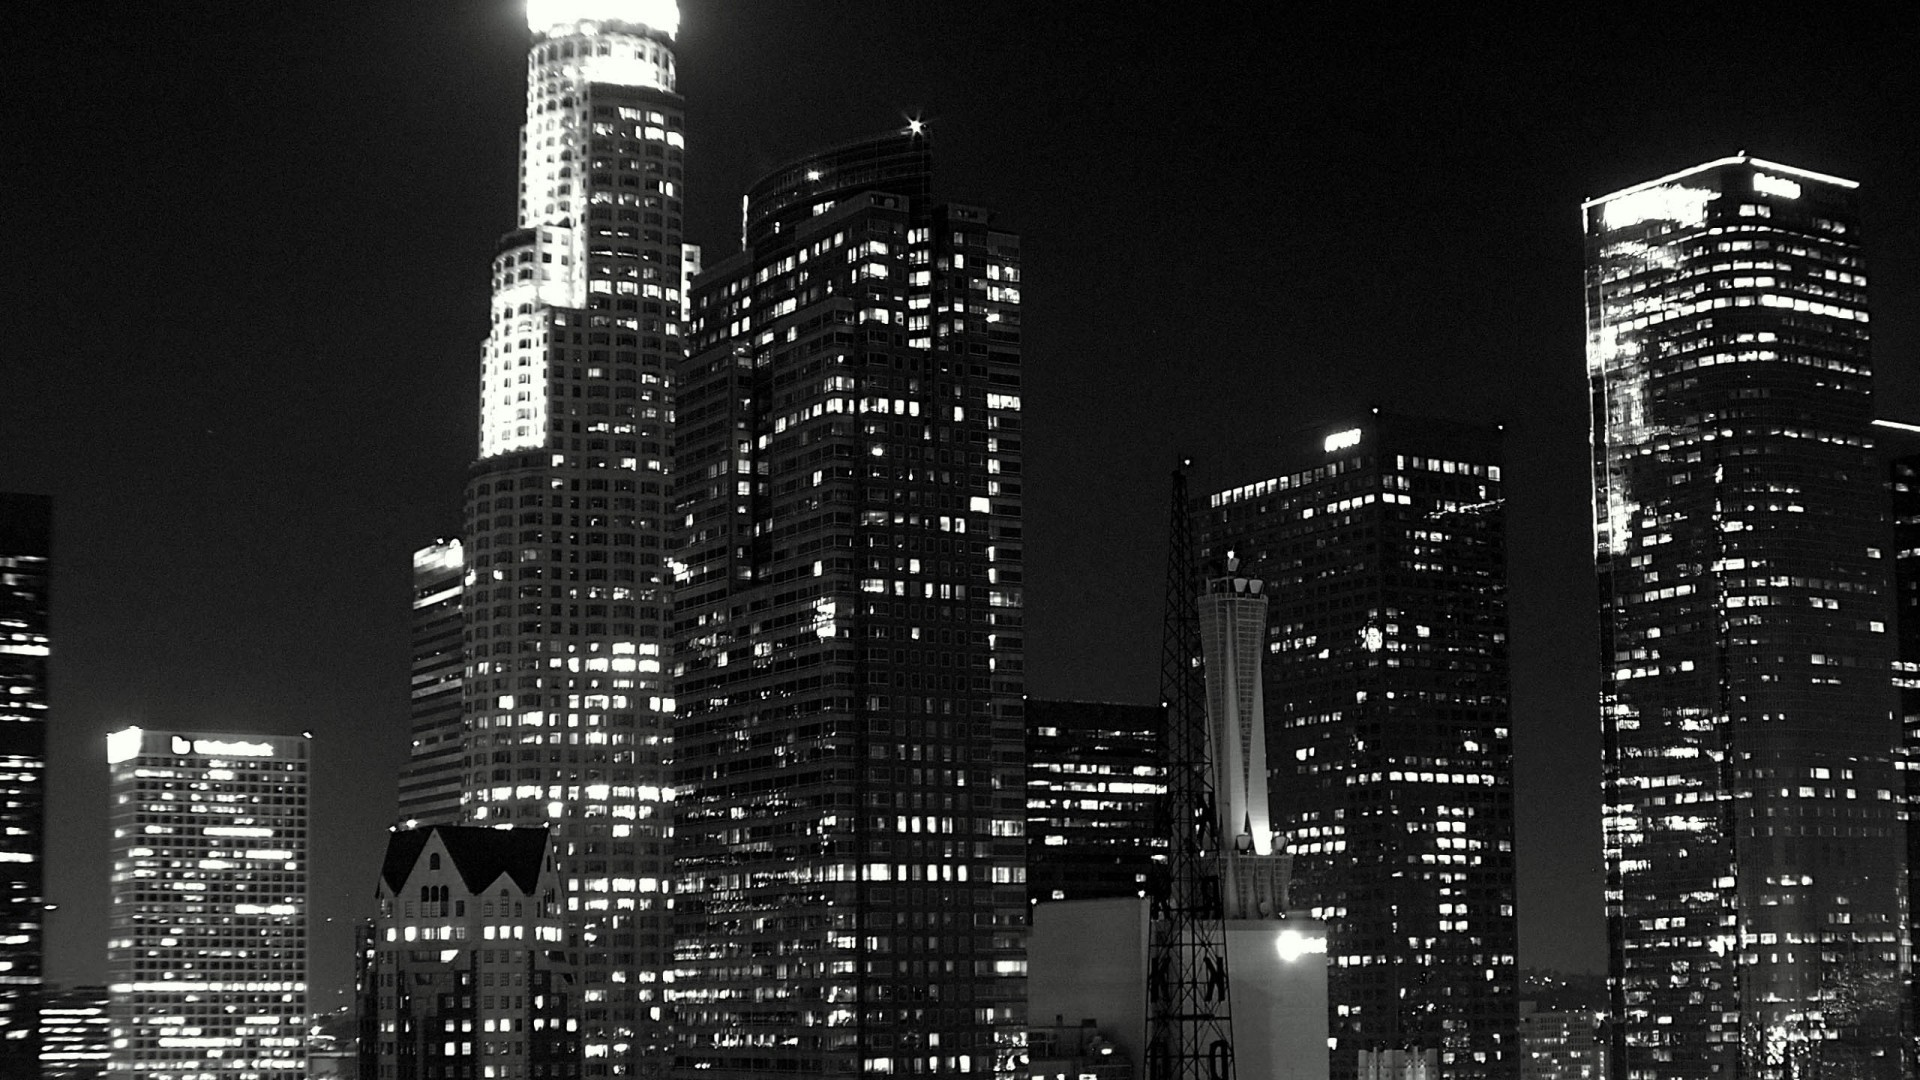
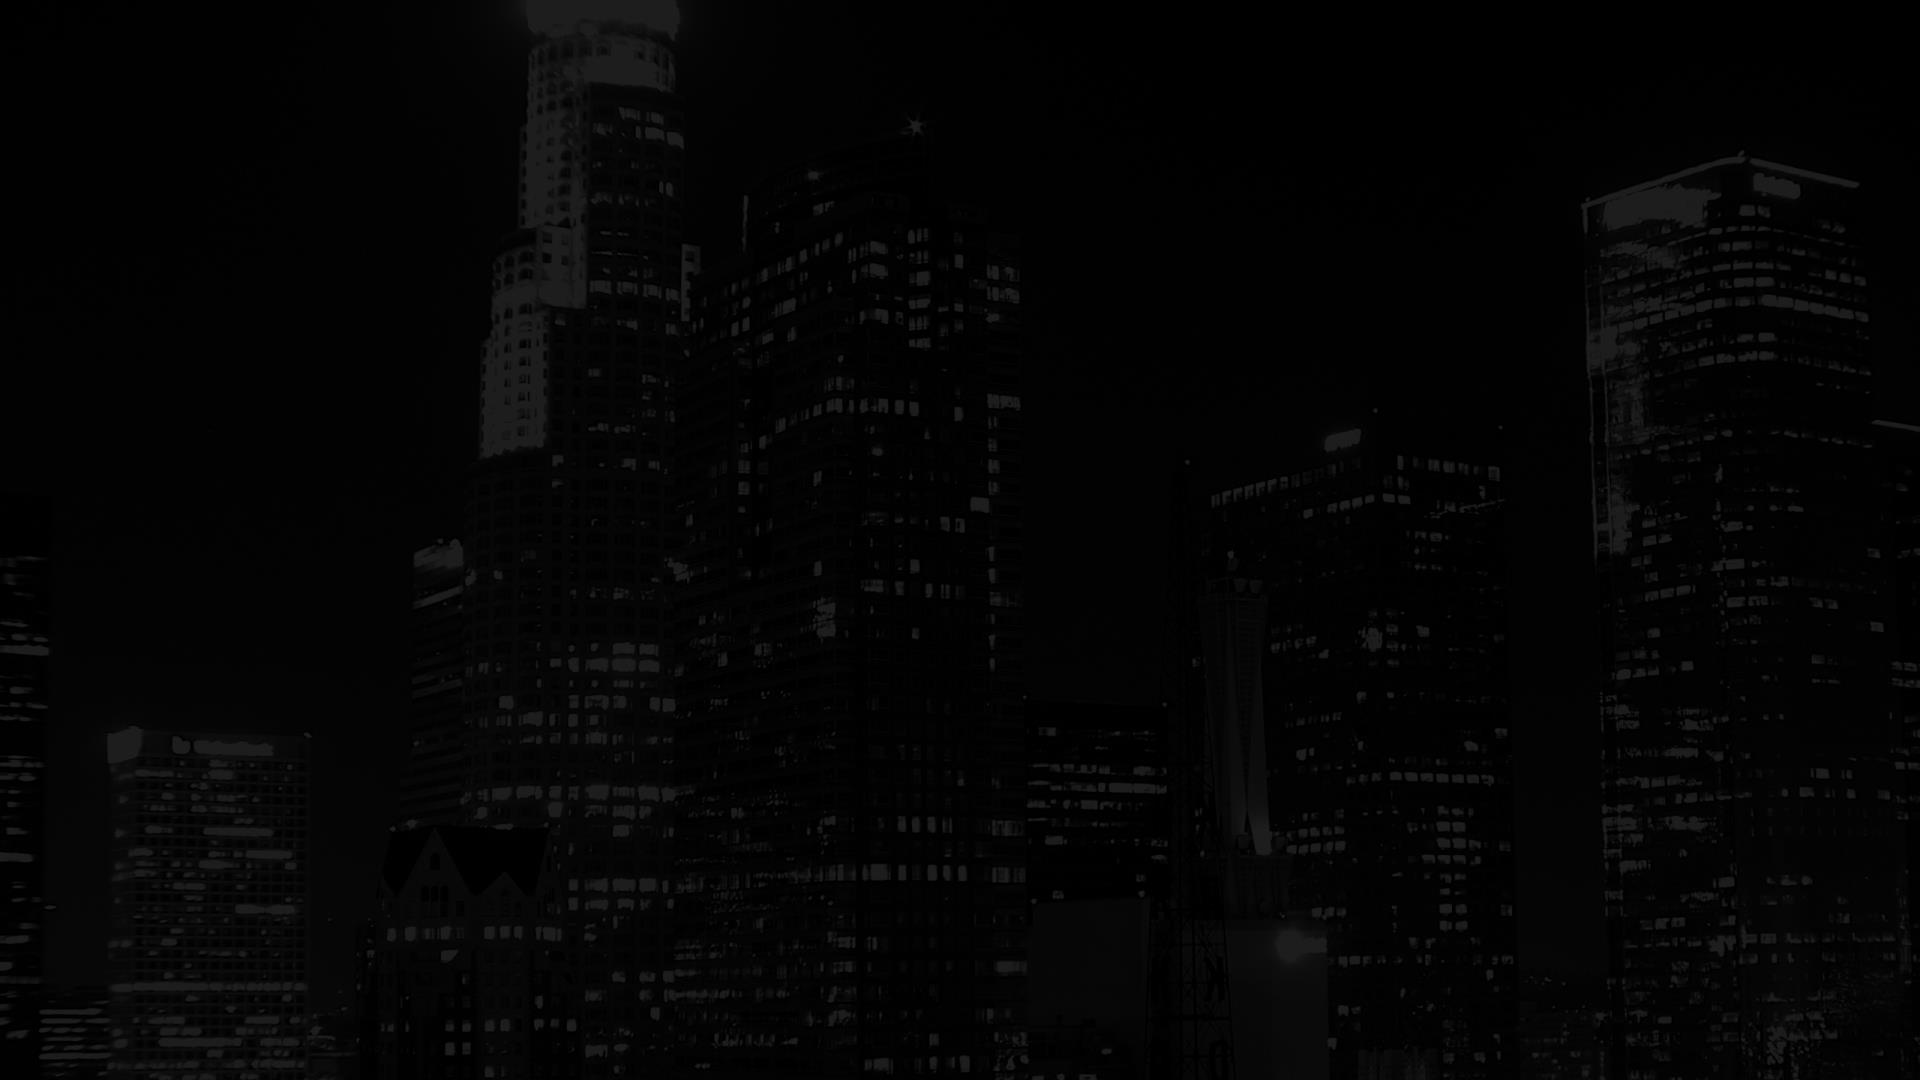
Modified background
Now it includes its own filter.

diff --git a/index.html b/index.html
@@ -49,15 +49,15 @@
 		<p class="wacky-text" id="block-two">I'm Yubo, I'm a developer...</p>
 		<p class="wacky-text" id="block-three">and an Electrical Engineering Student.</p>
 		<p class="wacky-text" id="block-four" style="padding-top:50px">Where would you like to go?</p>
-		<div class="buffer col-md-2"></div>
-		<div class="navigation-button col-md-4">About me</div>
-		<div class="navigation-button col-md-4">Projects</div>
-		<div class="buffer col-md-2"></div>
+		<div class="buffer col-sm-0 col-md-2"></div>
+		<div class="navigation-button col-sm-6 col-md-4">About me</div>
+		<div class="navigation-button col-sm-6 col-md-4">Projects</div>
+		<div class="buffer col-sm-0 col-md-2"></div>
 		<div class="clearfix"></div>
-		<div class="buffer col-md-2"></div>
-		<div class="navigation-button col-md-4">Resume</div>
-		<div class="navigation-button col-md-4">Contact me</div>
-		<div class="buffer col-md-2"></div>
+		<div class="buffer col-sm-0 col-md-2"></div>
+		<div class="navigation-button col-sm-6 col-md-4">Resume</div>
+		<div class="navigation-button col-sm-6 col-md-4">Contact me</div>
+		<div class="buffer col-sm-0 col-md-2"></div>
 	</div>
 
 </body>

diff --git a/css/mainMenu.css b/css/mainMenu.css
@@ -9,7 +9,6 @@
 }
 
 .background-overlay {
-	background-color: rgba(0, 0, 0, 0.9);
 	height: inherit;
 	width: inherit;
 }
